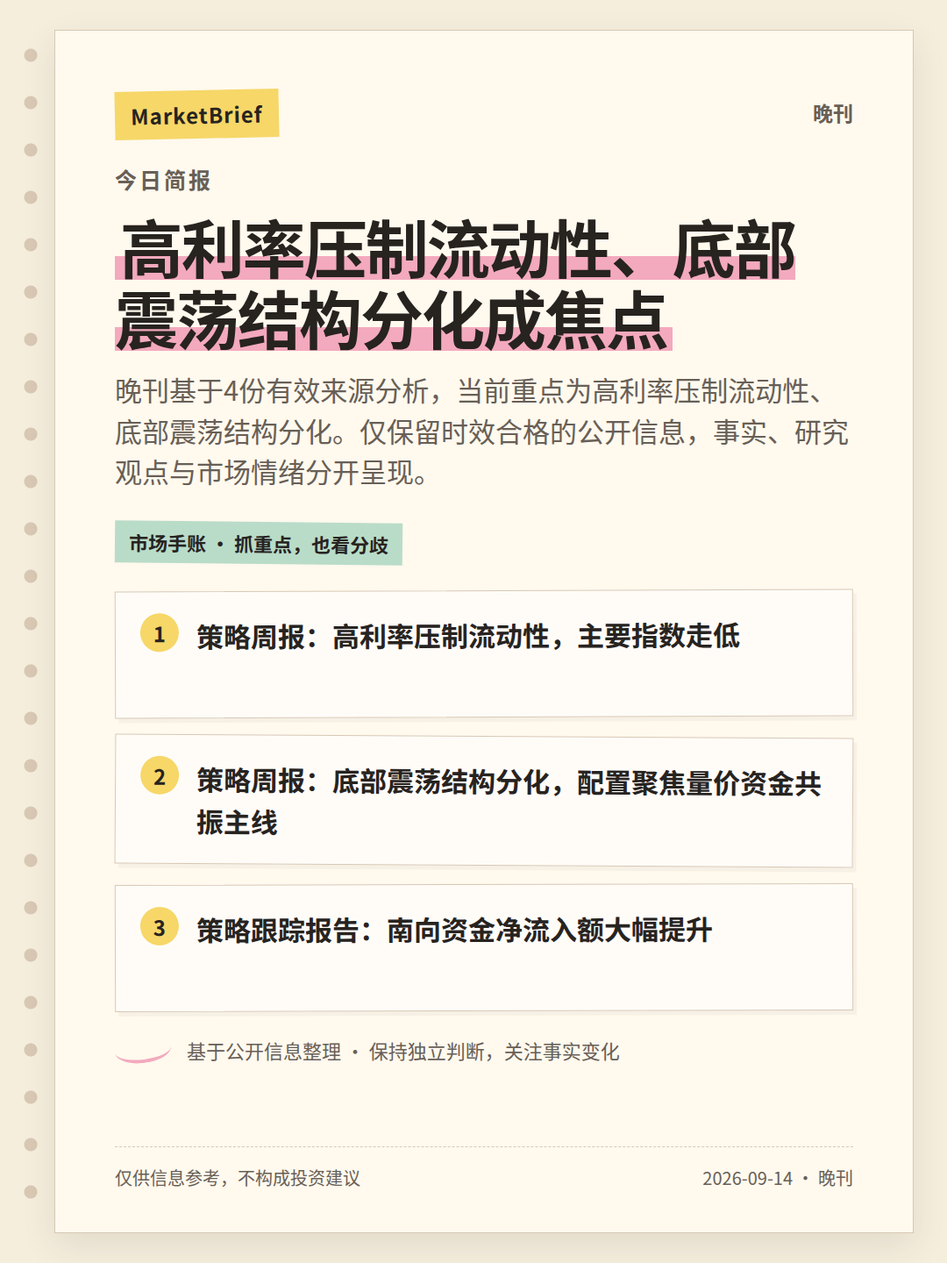
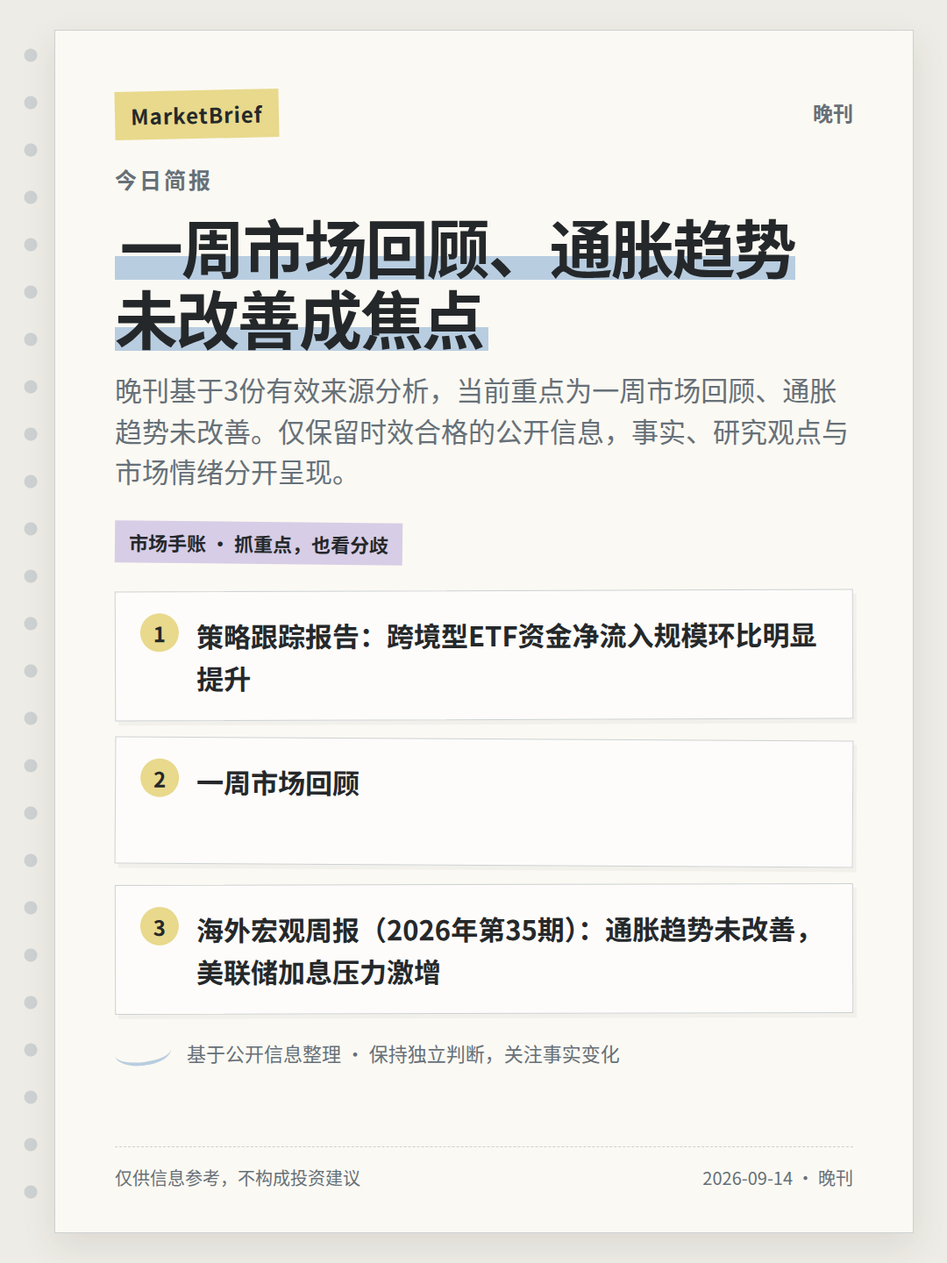
MarketBrief: publish official-source notebook edition

diff --git a/output/marketbrief/2026-09-14/pm/2026-09-14-pm-01.html b/output/marketbrief/2026-09-14/pm/2026-09-14-pm-01.html
@@ -1,33 +1,33 @@
 <!doctype html>
 <html lang="zh-CN"><head><meta charset="utf-8"><style>
-*{box-sizing:border-box}html,body{margin:0;width:1080px;height:1440px;background:#F5EEDD;color:#27231F;font-family:'Noto Sans CJK SC','Microsoft YaHei',sans-serif}
-body:before{content:'';position:absolute;left:24px;top:36px;bottom:36px;width:22px;background:radial-gradient(circle,#D8C8B4 0 7px,transparent 8px) center top/22px 54px repeat-y}
-main{position:relative;margin:34px 38px 34px 62px;width:980px;height:1372px;padding:68px 68px 52px;background:#FFF9EE;border:1px solid #D8C8B4;box-shadow:0 14px 36px rgba(58,47,39,.10);overflow:hidden}
+*{box-sizing:border-box}html,body{margin:0;width:1080px;height:1440px;background:#EEECE6;color:#25282A;font-family:'Noto Sans CJK SC','Microsoft YaHei',sans-serif}
+body:before{content:'';position:absolute;left:24px;top:36px;bottom:36px;width:22px;background:radial-gradient(circle,#CDD1D2 0 7px,transparent 8px) center top/22px 54px repeat-y}
+main{position:relative;margin:34px 38px 34px 62px;width:980px;height:1372px;padding:68px 68px 52px;background:#FBF9F3;border:1px solid #CDD1D2;box-shadow:0 14px 36px rgba(58,47,39,.10);overflow:hidden}
 main:after{content:none}
 .top{position:relative;z-index:1;display:flex;justify-content:space-between;align-items:flex-start;margin-bottom:28px}
-.tape{display:inline-block;padding:10px 18px;background:#F6D768;transform:rotate(-1.2deg);font-size:24px;font-weight:800;letter-spacing:1px}
-.edition{font-size:23px;font-weight:700;color:#685F56;padding-top:8px}
-.kicker{position:relative;z-index:1;font-size:25px;font-weight:800;letter-spacing:3px;color:#685F56;margin-bottom:18px}
+.tape{display:inline-block;padding:10px 18px;background:#E8D98C;transform:rotate(-1.2deg);font-size:24px;font-weight:800;letter-spacing:1px}
+.edition{font-size:23px;font-weight:700;color:#667078;padding-top:8px}
+.kicker{position:relative;z-index:1;font-size:25px;font-weight:800;letter-spacing:3px;color:#667078;margin-bottom:18px}
 h1{position:relative;z-index:1;font-size:72px;line-height:1.12;margin:0 0 20px;font-weight:900;letter-spacing:-2px}
-h1 span{background:linear-gradient(transparent 62%,#F3A9BE 62% 88%,transparent 88%);padding:0 .08em}
-.sub{position:relative;z-index:1;font-size:31px;line-height:1.5;color:#685F56;margin-bottom:34px;max-width:850px}
-.ribbon{position:relative;z-index:1;display:inline-block;padding:8px 16px;margin-bottom:30px;background:#B9DCC8;font-size:22px;font-weight:700;transform:rotate(.6deg)}
+h1 span{background:linear-gradient(transparent 62%,#B8CDE0 62% 88%,transparent 88%);padding:0 .08em}
+.sub{position:relative;z-index:1;font-size:31px;line-height:1.5;color:#667078;margin-bottom:34px;max-width:850px}
+.ribbon{position:relative;z-index:1;display:inline-block;padding:8px 16px;margin-bottom:30px;background:#D7CDE6;font-size:22px;font-weight:700;transform:rotate(.6deg)}
 .notes{position:relative;z-index:1;display:grid;gap:21px}
-.note{position:relative;min-height:145px;padding:26px 30px 24px 92px;background:rgba(255,255,255,.56);border:1px solid #D8C8B4;box-shadow:4px 5px 0 rgba(0,0,0,.035);transform:rotate(-.2deg)}
+.note{position:relative;min-height:145px;padding:26px 30px 24px 92px;background:rgba(255,255,255,.56);border:1px solid #CDD1D2;box-shadow:4px 5px 0 rgba(0,0,0,.035);transform:rotate(-.2deg)}
 .note:nth-child(2){transform:rotate(.35deg)}.note:nth-child(3){transform:rotate(-.15deg)}
-.note b{position:absolute;left:28px;top:24px;width:44px;height:44px;border-radius:50%;display:grid;place-items:center;background:#F6D768;font-size:24px}
+.note b{position:absolute;left:28px;top:24px;width:44px;height:44px;border-radius:50%;display:grid;place-items:center;background:#E8D98C;font-size:24px}
 .note p{margin:0;font-size:31px;line-height:1.55;font-weight:650}
-.margin{position:relative;z-index:1;margin-top:28px;display:flex;gap:18px;align-items:center;color:#685F56;font-size:22px}
-.sketch{width:64px;height:30px;border-bottom:4px solid #F3A9BE;border-radius:50%;transform:rotate(-7deg)}
-footer{position:absolute;z-index:1;left:68px;right:68px;bottom:48px;border-top:1px dashed #D8C8B4;padding-top:20px;display:flex;justify-content:space-between;gap:20px;color:#685F56;font-size:20px}
+.margin{position:relative;z-index:1;margin-top:28px;display:flex;gap:18px;align-items:center;color:#667078;font-size:22px}
+.sketch{width:64px;height:30px;border-bottom:4px solid #B8CDE0;border-radius:50%;transform:rotate(-7deg)}
+footer{position:absolute;z-index:1;left:68px;right:68px;bottom:48px;border-top:1px dashed #CDD1D2;padding-top:20px;display:flex;justify-content:space-between;gap:20px;color:#667078;font-size:20px}
 </style></head>
 <body><main>
 <div class="top"><span class="tape">MarketBrief</span><span class="edition">晚刊</span></div>
 <div class="kicker">今日简报</div>
-<h1><span>高利率压制流动性、底部震荡结构分化成焦点</span></h1>
-<div class="sub">晚刊基于4份有效来源分析，当前重点为高利率压制流动性、底部震荡结构分化。仅保留时效合格的公开信息，事实、研究观点与市场情绪分开呈现。</div>
+<h1><span>一周市场回顾、通胀趋势未改善成焦点</span></h1>
+<div class="sub">晚刊基于3份有效来源分析，当前重点为一周市场回顾、通胀趋势未改善。仅保留时效合格的公开信息，事实、研究观点与市场情绪分开呈现。</div>
 <div class="ribbon">市场手账 · 抓重点，也看分歧</div>
-<div class="notes"><section class="note"><b>1</b><p>策略周报：高利率压制流动性，主要指数走低</p></section><section class="note"><b>2</b><p>策略周报：底部震荡结构分化，配置聚焦量价资金共振主线</p></section><section class="note"><b>3</b><p>策略跟踪报告：南向资金净流入额大幅提升</p></section></div>
+<div class="notes"><section class="note"><b>1</b><p>策略跟踪报告：跨境型ETF资金净流入规模环比明显提升</p></section><section class="note"><b>2</b><p>一周市场回顾</p></section><section class="note"><b>3</b><p>海外宏观周报（2026年第35期）：通胀趋势未改善，美联储加息压力激增</p></section></div>
 <div class="margin"><span class="sketch"></span><span>基于公开信息整理 · 保持独立判断，关注事实变化</span></div>
 <footer><span>仅供信息参考，不构成投资建议</span><span>2026-09-14 · 晚刊</span></footer>
 </main></body></html>

diff --git a/output/marketbrief/2026-09-14/pm/2026-09-14-pm-02.html b/output/marketbrief/2026-09-14/pm/2026-09-14-pm-02.html
@@ -1,25 +1,25 @@
 <!doctype html>
 <html lang="zh-CN"><head><meta charset="utf-8"><style>
-*{box-sizing:border-box}html,body{margin:0;width:1080px;height:1440px;background:#F5EEDD;color:#27231F;font-family:'Noto Sans CJK SC','Microsoft YaHei',sans-serif}
-body:before{content:'';position:absolute;left:24px;top:36px;bottom:36px;width:22px;background:radial-gradient(circle,#D8C8B4 0 7px,transparent 8px) center top/22px 54px repeat-y}
-main{position:relative;margin:34px 38px 34px 62px;width:980px;height:1372px;padding:68px 68px 52px;background:#FFF9EE;border:1px solid #D8C8B4;box-shadow:0 14px 36px rgba(58,47,39,.10);overflow:hidden}
+*{box-sizing:border-box}html,body{margin:0;width:1080px;height:1440px;background:#EEECE6;color:#25282A;font-family:'Noto Sans CJK SC','Microsoft YaHei',sans-serif}
+body:before{content:'';position:absolute;left:24px;top:36px;bottom:36px;width:22px;background:radial-gradient(circle,#CDD1D2 0 7px,transparent 8px) center top/22px 54px repeat-y}
+main{position:relative;margin:34px 38px 34px 62px;width:980px;height:1372px;padding:68px 68px 52px;background:#FBF9F3;border:1px solid #CDD1D2;box-shadow:0 14px 36px rgba(58,47,39,.10);overflow:hidden}
 main:after{content:none}
 .top{position:relative;z-index:1;display:flex;justify-content:space-between;align-items:flex-start;margin-bottom:28px}
-.tape{display:inline-block;padding:10px 18px;background:#F6D768;transform:rotate(-1.2deg);font-size:24px;font-weight:800;letter-spacing:1px}
-.edition{font-size:23px;font-weight:700;color:#685F56;padding-top:8px}
-.kicker{position:relative;z-index:1;font-size:25px;font-weight:800;letter-spacing:3px;color:#685F56;margin-bottom:18px}
+.tape{display:inline-block;padding:10px 18px;background:#E8D98C;transform:rotate(-1.2deg);font-size:24px;font-weight:800;letter-spacing:1px}
+.edition{font-size:23px;font-weight:700;color:#667078;padding-top:8px}
+.kicker{position:relative;z-index:1;font-size:25px;font-weight:800;letter-spacing:3px;color:#667078;margin-bottom:18px}
 h1{position:relative;z-index:1;font-size:72px;line-height:1.12;margin:0 0 20px;font-weight:900;letter-spacing:-2px}
-h1 span{background:linear-gradient(transparent 62%,#F3A9BE 62% 88%,transparent 88%);padding:0 .08em}
-.sub{position:relative;z-index:1;font-size:31px;line-height:1.5;color:#685F56;margin-bottom:34px;max-width:850px}
-.ribbon{position:relative;z-index:1;display:inline-block;padding:8px 16px;margin-bottom:30px;background:#B9DCC8;font-size:22px;font-weight:700;transform:rotate(.6deg)}
+h1 span{background:linear-gradient(transparent 62%,#B8CDE0 62% 88%,transparent 88%);padding:0 .08em}
+.sub{position:relative;z-index:1;font-size:31px;line-height:1.5;color:#667078;margin-bottom:34px;max-width:850px}
+.ribbon{position:relative;z-index:1;display:inline-block;padding:8px 16px;margin-bottom:30px;background:#D7CDE6;font-size:22px;font-weight:700;transform:rotate(.6deg)}
 .notes{position:relative;z-index:1;display:grid;gap:21px}
-.note{position:relative;min-height:145px;padding:26px 30px 24px 92px;background:rgba(255,255,255,.56);border:1px solid #D8C8B4;box-shadow:4px 5px 0 rgba(0,0,0,.035);transform:rotate(-.2deg)}
+.note{position:relative;min-height:145px;padding:26px 30px 24px 92px;background:rgba(255,255,255,.56);border:1px solid #CDD1D2;box-shadow:4px 5px 0 rgba(0,0,0,.035);transform:rotate(-.2deg)}
 .note:nth-child(2){transform:rotate(.35deg)}.note:nth-child(3){transform:rotate(-.15deg)}
-.note b{position:absolute;left:28px;top:24px;width:44px;height:44px;border-radius:50%;display:grid;place-items:center;background:#F6D768;font-size:24px}
+.note b{position:absolute;left:28px;top:24px;width:44px;height:44px;border-radius:50%;display:grid;place-items:center;background:#E8D98C;font-size:24px}
 .note p{margin:0;font-size:31px;line-height:1.55;font-weight:650}
-.margin{position:relative;z-index:1;margin-top:28px;display:flex;gap:18px;align-items:center;color:#685F56;font-size:22px}
-.sketch{width:64px;height:30px;border-bottom:4px solid #F3A9BE;border-radius:50%;transform:rotate(-7deg)}
-footer{position:absolute;z-index:1;left:68px;right:68px;bottom:48px;border-top:1px dashed #D8C8B4;padding-top:20px;display:flex;justify-content:space-between;gap:20px;color:#685F56;font-size:20px}
+.margin{position:relative;z-index:1;margin-top:28px;display:flex;gap:18px;align-items:center;color:#667078;font-size:22px}
+.sketch{width:64px;height:30px;border-bottom:4px solid #B8CDE0;border-radius:50%;transform:rotate(-7deg)}
+footer{position:absolute;z-index:1;left:68px;right:68px;bottom:48px;border-top:1px dashed #CDD1D2;padding-top:20px;display:flex;justify-content:space-between;gap:20px;color:#667078;font-size:20px}
 </style></head>
 <body><main>
 <div class="top"><span class="tape">MarketBrief</span><span class="edition">晚刊</span></div>
@@ -27,7 +27,7 @@ footer{position:absolute;z-index:1;left:68px;right:68px;bottom:48px;border-top:1
 <h1><span>今晚外部变量</span></h1>
 <div class="sub">只保留当前时效窗口内、已有公开信息支持的海外市场与宏观线索。</div>
 <div class="ribbon">市场手账 · 抓重点，也看分歧</div>
-<div class="notes"><section class="note"><b>1</b><p>CPI消费者价格指数发布：09/11发布，具体数值未在本页提供</p></section><section class="note"><b>2</b><p>PPI生产者价格指数发布：09/10发布，具体数值未在本页提供</p></section><section class="note"><b>3</b><p>BLS实践与程序审查结果简报：无日期公告，内容未知</p></section></div>
+<div class="notes"><section class="note"><b>1</b><p>CPI与PPI近期发布：CPI于9/11发布，PPI于9/10发布，均在时效窗口内，但页面未提供具体数值</p></section><section class="note"><b>2</b><p>实际收入与雇主成本发布：Real Earnings于9/11发布，ECCEC于9/9发布，均为近期数据锚点</p></section><section class="note"><b>3</b><p>BLS实践与程序审查简报：最新公告为BLS实践与程序审查结果简报，未标注日期</p></section></div>
 <div class="margin"><span class="sketch"></span><span>基于公开信息整理 · 保持独立判断，关注事实变化</span></div>
 <footer><span>仅供信息参考，不构成投资建议</span><span>2026-09-14 · 晚刊</span></footer>
 </main></body></html>

diff --git a/output/marketbrief/2026-09-14/pm/2026-09-14-pm-05.html b/output/marketbrief/2026-09-14/pm/2026-09-14-pm-05.html
@@ -1,25 +1,25 @@
 <!doctype html>
 <html lang="zh-CN"><head><meta charset="utf-8"><style>
-*{box-sizing:border-box}html,body{margin:0;width:1080px;height:1440px;background:#F5EEDD;color:#27231F;font-family:'Noto Sans CJK SC','Microsoft YaHei',sans-serif}
-body:before{content:'';position:absolute;left:24px;top:36px;bottom:36px;width:22px;background:radial-gradient(circle,#D8C8B4 0 7px,transparent 8px) center top/22px 54px repeat-y}
-main{position:relative;margin:34px 38px 34px 62px;width:980px;height:1372px;padding:68px 68px 52px;background:#FFF9EE;border:1px solid #D8C8B4;box-shadow:0 14px 36px rgba(58,47,39,.10);overflow:hidden}
+*{box-sizing:border-box}html,body{margin:0;width:1080px;height:1440px;background:#EEECE6;color:#25282A;font-family:'Noto Sans CJK SC','Microsoft YaHei',sans-serif}
+body:before{content:'';position:absolute;left:24px;top:36px;bottom:36px;width:22px;background:radial-gradient(circle,#CDD1D2 0 7px,transparent 8px) center top/22px 54px repeat-y}
+main{position:relative;margin:34px 38px 34px 62px;width:980px;height:1372px;padding:68px 68px 52px;background:#FBF9F3;border:1px solid #CDD1D2;box-shadow:0 14px 36px rgba(58,47,39,.10);overflow:hidden}
 main:after{content:none}
 .top{position:relative;z-index:1;display:flex;justify-content:space-between;align-items:flex-start;margin-bottom:28px}
-.tape{display:inline-block;padding:10px 18px;background:#F6D768;transform:rotate(-1.2deg);font-size:24px;font-weight:800;letter-spacing:1px}
-.edition{font-size:23px;font-weight:700;color:#685F56;padding-top:8px}
-.kicker{position:relative;z-index:1;font-size:25px;font-weight:800;letter-spacing:3px;color:#685F56;margin-bottom:18px}
+.tape{display:inline-block;padding:10px 18px;background:#E8D98C;transform:rotate(-1.2deg);font-size:24px;font-weight:800;letter-spacing:1px}
+.edition{font-size:23px;font-weight:700;color:#667078;padding-top:8px}
+.kicker{position:relative;z-index:1;font-size:25px;font-weight:800;letter-spacing:3px;color:#667078;margin-bottom:18px}
 h1{position:relative;z-index:1;font-size:72px;line-height:1.12;margin:0 0 20px;font-weight:900;letter-spacing:-2px}
-h1 span{background:linear-gradient(transparent 62%,#F3A9BE 62% 88%,transparent 88%);padding:0 .08em}
-.sub{position:relative;z-index:1;font-size:31px;line-height:1.5;color:#685F56;margin-bottom:34px;max-width:850px}
-.ribbon{position:relative;z-index:1;display:inline-block;padding:8px 16px;margin-bottom:30px;background:#B9DCC8;font-size:22px;font-weight:700;transform:rotate(.6deg)}
+h1 span{background:linear-gradient(transparent 62%,#B8CDE0 62% 88%,transparent 88%);padding:0 .08em}
+.sub{position:relative;z-index:1;font-size:31px;line-height:1.5;color:#667078;margin-bottom:34px;max-width:850px}
+.ribbon{position:relative;z-index:1;display:inline-block;padding:8px 16px;margin-bottom:30px;background:#D7CDE6;font-size:22px;font-weight:700;transform:rotate(.6deg)}
 .notes{position:relative;z-index:1;display:grid;gap:21px}
-.note{position:relative;min-height:145px;padding:26px 30px 24px 92px;background:rgba(255,255,255,.56);border:1px solid #D8C8B4;box-shadow:4px 5px 0 rgba(0,0,0,.035);transform:rotate(-.2deg)}
+.note{position:relative;min-height:145px;padding:26px 30px 24px 92px;background:rgba(255,255,255,.56);border:1px solid #CDD1D2;box-shadow:4px 5px 0 rgba(0,0,0,.035);transform:rotate(-.2deg)}
 .note:nth-child(2){transform:rotate(.35deg)}.note:nth-child(3){transform:rotate(-.15deg)}
-.note b{position:absolute;left:28px;top:24px;width:44px;height:44px;border-radius:50%;display:grid;place-items:center;background:#F6D768;font-size:24px}
+.note b{position:absolute;left:28px;top:24px;width:44px;height:44px;border-radius:50%;display:grid;place-items:center;background:#E8D98C;font-size:24px}
 .note p{margin:0;font-size:31px;line-height:1.55;font-weight:650}
-.margin{position:relative;z-index:1;margin-top:28px;display:flex;gap:18px;align-items:center;color:#685F56;font-size:22px}
-.sketch{width:64px;height:30px;border-bottom:4px solid #F3A9BE;border-radius:50%;transform:rotate(-7deg)}
-footer{position:absolute;z-index:1;left:68px;right:68px;bottom:48px;border-top:1px dashed #D8C8B4;padding-top:20px;display:flex;justify-content:space-between;gap:20px;color:#685F56;font-size:20px}
+.margin{position:relative;z-index:1;margin-top:28px;display:flex;gap:18px;align-items:center;color:#667078;font-size:22px}
+.sketch{width:64px;height:30px;border-bottom:4px solid #B8CDE0;border-radius:50%;transform:rotate(-7deg)}
+footer{position:absolute;z-index:1;left:68px;right:68px;bottom:48px;border-top:1px dashed #CDD1D2;padding-top:20px;display:flex;justify-content:space-between;gap:20px;color:#667078;font-size:20px}
 </style></head>
 <body><main>
 <div class="top"><span class="tape">MarketBrief</span><span class="edition">晚刊</span></div>
@@ -27,7 +27,7 @@ footer{position:absolute;z-index:1;left:68px;right:68px;bottom:48px;border-top:1
 <h1><span>事实、观点与情绪分开看</span></h1>
 <div class="sub">先看已确认事实，再看研究判断和市场情绪是否一致。</div>
 <div class="ribbon">市场手账 · 抓重点，也看分歧</div>
-<div class="notes"><section class="note"><b>1</b><p>CPI消费者价格指数发布：09/11发布，具体数值未在本页提供</p></section><section class="note"><b>2</b><p>策略周报：高利率压制流动性，主要指数走低</p></section><section class="note"><b>3</b><p>CPO板块持续活跃：易中天等CPO相关个股热度居前，板块情绪偏热</p></section></div>
+<div class="notes"><section class="note"><b>1</b><p>CPI与PPI近期发布：CPI于9/11发布，PPI于9/10发布，均在时效窗口内，但页面未提供具体数值</p></section><section class="note"><b>2</b><p>策略跟踪报告：跨境型ETF资金净流入规模环比明显提升</p></section><section class="note"><b>3</b><p>继续观察公开信息变化，避免仅凭单一信号下结论。</p></section></div>
 <div class="margin"><span class="sketch"></span><span>基于公开信息整理 · 保持独立判断，关注事实变化</span></div>
 <footer><span>仅供信息参考，不构成投资建议</span><span>2026-09-14 · 晚刊</span></footer>
 </main></body></html>

diff --git a/output/marketbrief/2026-09-14/pm/2026-09-14-pm-06.html b/output/marketbrief/2026-09-14/pm/2026-09-14-pm-06.html
@@ -1,25 +1,25 @@
 <!doctype html>
 <html lang="zh-CN"><head><meta charset="utf-8"><style>
-*{box-sizing:border-box}html,body{margin:0;width:1080px;height:1440px;background:#F5EEDD;color:#27231F;font-family:'Noto Sans CJK SC','Microsoft YaHei',sans-serif}
-body:before{content:'';position:absolute;left:24px;top:36px;bottom:36px;width:22px;background:radial-gradient(circle,#D8C8B4 0 7px,transparent 8px) center top/22px 54px repeat-y}
-main{position:relative;margin:34px 38px 34px 62px;width:980px;height:1372px;padding:68px 68px 52px;background:#FFF9EE;border:1px solid #D8C8B4;box-shadow:0 14px 36px rgba(58,47,39,.10);overflow:hidden}
+*{box-sizing:border-box}html,body{margin:0;width:1080px;height:1440px;background:#EEECE6;color:#25282A;font-family:'Noto Sans CJK SC','Microsoft YaHei',sans-serif}
+body:before{content:'';position:absolute;left:24px;top:36px;bottom:36px;width:22px;background:radial-gradient(circle,#CDD1D2 0 7px,transparent 8px) center top/22px 54px repeat-y}
+main{position:relative;margin:34px 38px 34px 62px;width:980px;height:1372px;padding:68px 68px 52px;background:#FBF9F3;border:1px solid #CDD1D2;box-shadow:0 14px 36px rgba(58,47,39,.10);overflow:hidden}
 main:after{content:none}
 .top{position:relative;z-index:1;display:flex;justify-content:space-between;align-items:flex-start;margin-bottom:28px}
-.tape{display:inline-block;padding:10px 18px;background:#F6D768;transform:rotate(-1.2deg);font-size:24px;font-weight:800;letter-spacing:1px}
-.edition{font-size:23px;font-weight:700;color:#685F56;padding-top:8px}
-.kicker{position:relative;z-index:1;font-size:25px;font-weight:800;letter-spacing:3px;color:#685F56;margin-bottom:18px}
+.tape{display:inline-block;padding:10px 18px;background:#E8D98C;transform:rotate(-1.2deg);font-size:24px;font-weight:800;letter-spacing:1px}
+.edition{font-size:23px;font-weight:700;color:#667078;padding-top:8px}
+.kicker{position:relative;z-index:1;font-size:25px;font-weight:800;letter-spacing:3px;color:#667078;margin-bottom:18px}
 h1{position:relative;z-index:1;font-size:72px;line-height:1.12;margin:0 0 20px;font-weight:900;letter-spacing:-2px}
-h1 span{background:linear-gradient(transparent 62%,#F3A9BE 62% 88%,transparent 88%);padding:0 .08em}
-.sub{position:relative;z-index:1;font-size:31px;line-height:1.5;color:#685F56;margin-bottom:34px;max-width:850px}
-.ribbon{position:relative;z-index:1;display:inline-block;padding:8px 16px;margin-bottom:30px;background:#B9DCC8;font-size:22px;font-weight:700;transform:rotate(.6deg)}
+h1 span{background:linear-gradient(transparent 62%,#B8CDE0 62% 88%,transparent 88%);padding:0 .08em}
+.sub{position:relative;z-index:1;font-size:31px;line-height:1.5;color:#667078;margin-bottom:34px;max-width:850px}
+.ribbon{position:relative;z-index:1;display:inline-block;padding:8px 16px;margin-bottom:30px;background:#D7CDE6;font-size:22px;font-weight:700;transform:rotate(.6deg)}
 .notes{position:relative;z-index:1;display:grid;gap:21px}
-.note{position:relative;min-height:145px;padding:26px 30px 24px 92px;background:rgba(255,255,255,.56);border:1px solid #D8C8B4;box-shadow:4px 5px 0 rgba(0,0,0,.035);transform:rotate(-.2deg)}
+.note{position:relative;min-height:145px;padding:26px 30px 24px 92px;background:rgba(255,255,255,.56);border:1px solid #CDD1D2;box-shadow:4px 5px 0 rgba(0,0,0,.035);transform:rotate(-.2deg)}
 .note:nth-child(2){transform:rotate(.35deg)}.note:nth-child(3){transform:rotate(-.15deg)}
-.note b{position:absolute;left:28px;top:24px;width:44px;height:44px;border-radius:50%;display:grid;place-items:center;background:#F6D768;font-size:24px}
+.note b{position:absolute;left:28px;top:24px;width:44px;height:44px;border-radius:50%;display:grid;place-items:center;background:#E8D98C;font-size:24px}
 .note p{margin:0;font-size:31px;line-height:1.55;font-weight:650}
-.margin{position:relative;z-index:1;margin-top:28px;display:flex;gap:18px;align-items:center;color:#685F56;font-size:22px}
-.sketch{width:64px;height:30px;border-bottom:4px solid #F3A9BE;border-radius:50%;transform:rotate(-7deg)}
-footer{position:absolute;z-index:1;left:68px;right:68px;bottom:48px;border-top:1px dashed #D8C8B4;padding-top:20px;display:flex;justify-content:space-between;gap:20px;color:#685F56;font-size:20px}
+.margin{position:relative;z-index:1;margin-top:28px;display:flex;gap:18px;align-items:center;color:#667078;font-size:22px}
+.sketch{width:64px;height:30px;border-bottom:4px solid #B8CDE0;border-radius:50%;transform:rotate(-7deg)}
+footer{position:absolute;z-index:1;left:68px;right:68px;bottom:48px;border-top:1px dashed #CDD1D2;padding-top:20px;display:flex;justify-content:space-between;gap:20px;color:#667078;font-size:20px}
 </style></head>
 <body><main>
 <div class="top"><span class="tape">MarketBrief</span><span class="edition">晚刊</span></div>
@@ -27,7 +27,7 @@ footer{position:absolute;z-index:1;left:68px;right:68px;bottom:48px;border-top:1
 <h1><span>后续变量仍需确认</span></h1>
 <div class="sub">只保留来源自身限制和当前证据中的风险项，不额外推演。</div>
 <div class="ribbon">市场手账 · 抓重点，也看分歧</div>
-<div class="notes"><section class="note"><b>1</b><p>社区来源，仅为情绪/讨论线索，非事实锚</p></section><section class="note"><b>2</b><p>部分社区信息存在时效性不足，过期内容已从当前证据中剔除。</p></section><section class="note"><b>3</b><p>热股榜为实时快照，不代表持续趋势</p></section></div>
+<div class="notes"><section class="note"><b>1</b><p>页面为新闻室导航/索引页，仅列出发布标题与日期，未包含CPI、PPI等具体数据数值</p></section><section class="note"><b>2</b><p>无法从本页获取通胀率、失业率等关键经济指标的具体读数</p></section><section class="note"><b>3</b><p>部分社区信息存在时效性不足，过期内容已从当前证据中剔除。</p></section></div>
 <div class="margin"><span class="sketch"></span><span>基于公开信息整理 · 保持独立判断，关注事实变化</span></div>
 <footer><span>仅供信息参考，不构成投资建议</span><span>2026-09-14 · 晚刊</span></footer>
 </main></body></html>

diff --git a/output/marketbrief/2026-09-14/pm/2026-09-14-pm-04.html b/output/marketbrief/2026-09-14/pm/2026-09-14-pm-04.html
@@ -1,25 +1,25 @@
 <!doctype html>
 <html lang="zh-CN"><head><meta charset="utf-8"><style>
-*{box-sizing:border-box}html,body{margin:0;width:1080px;height:1440px;background:#F5EEDD;color:#27231F;font-family:'Noto Sans CJK SC','Microsoft YaHei',sans-serif}
-body:before{content:'';position:absolute;left:24px;top:36px;bottom:36px;width:22px;background:radial-gradient(circle,#D8C8B4 0 7px,transparent 8px) center top/22px 54px repeat-y}
-main{position:relative;margin:34px 38px 34px 62px;width:980px;height:1372px;padding:68px 68px 52px;background:#FFF9EE;border:1px solid #D8C8B4;box-shadow:0 14px 36px rgba(58,47,39,.10);overflow:hidden}
+*{box-sizing:border-box}html,body{margin:0;width:1080px;height:1440px;background:#EEECE6;color:#25282A;font-family:'Noto Sans CJK SC','Microsoft YaHei',sans-serif}
+body:before{content:'';position:absolute;left:24px;top:36px;bottom:36px;width:22px;background:radial-gradient(circle,#CDD1D2 0 7px,transparent 8px) center top/22px 54px repeat-y}
+main{position:relative;margin:34px 38px 34px 62px;width:980px;height:1372px;padding:68px 68px 52px;background:#FBF9F3;border:1px solid #CDD1D2;box-shadow:0 14px 36px rgba(58,47,39,.10);overflow:hidden}
 main:after{content:none}
 .top{position:relative;z-index:1;display:flex;justify-content:space-between;align-items:flex-start;margin-bottom:28px}
-.tape{display:inline-block;padding:10px 18px;background:#F6D768;transform:rotate(-1.2deg);font-size:24px;font-weight:800;letter-spacing:1px}
-.edition{font-size:23px;font-weight:700;color:#685F56;padding-top:8px}
-.kicker{position:relative;z-index:1;font-size:25px;font-weight:800;letter-spacing:3px;color:#685F56;margin-bottom:18px}
+.tape{display:inline-block;padding:10px 18px;background:#E8D98C;transform:rotate(-1.2deg);font-size:24px;font-weight:800;letter-spacing:1px}
+.edition{font-size:23px;font-weight:700;color:#667078;padding-top:8px}
+.kicker{position:relative;z-index:1;font-size:25px;font-weight:800;letter-spacing:3px;color:#667078;margin-bottom:18px}
 h1{position:relative;z-index:1;font-size:72px;line-height:1.12;margin:0 0 20px;font-weight:900;letter-spacing:-2px}
-h1 span{background:linear-gradient(transparent 62%,#F3A9BE 62% 88%,transparent 88%);padding:0 .08em}
-.sub{position:relative;z-index:1;font-size:31px;line-height:1.5;color:#685F56;margin-bottom:34px;max-width:850px}
-.ribbon{position:relative;z-index:1;display:inline-block;padding:8px 16px;margin-bottom:30px;background:#B9DCC8;font-size:22px;font-weight:700;transform:rotate(.6deg)}
+h1 span{background:linear-gradient(transparent 62%,#B8CDE0 62% 88%,transparent 88%);padding:0 .08em}
+.sub{position:relative;z-index:1;font-size:31px;line-height:1.5;color:#667078;margin-bottom:34px;max-width:850px}
+.ribbon{position:relative;z-index:1;display:inline-block;padding:8px 16px;margin-bottom:30px;background:#D7CDE6;font-size:22px;font-weight:700;transform:rotate(.6deg)}
 .notes{position:relative;z-index:1;display:grid;gap:21px}
-.note{position:relative;min-height:145px;padding:26px 30px 24px 92px;background:rgba(255,255,255,.56);border:1px solid #D8C8B4;box-shadow:4px 5px 0 rgba(0,0,0,.035);transform:rotate(-.2deg)}
+.note{position:relative;min-height:145px;padding:26px 30px 24px 92px;background:rgba(255,255,255,.56);border:1px solid #CDD1D2;box-shadow:4px 5px 0 rgba(0,0,0,.035);transform:rotate(-.2deg)}
 .note:nth-child(2){transform:rotate(.35deg)}.note:nth-child(3){transform:rotate(-.15deg)}
-.note b{position:absolute;left:28px;top:24px;width:44px;height:44px;border-radius:50%;display:grid;place-items:center;background:#F6D768;font-size:24px}
+.note b{position:absolute;left:28px;top:24px;width:44px;height:44px;border-radius:50%;display:grid;place-items:center;background:#E8D98C;font-size:24px}
 .note p{margin:0;font-size:31px;line-height:1.55;font-weight:650}
-.margin{position:relative;z-index:1;margin-top:28px;display:flex;gap:18px;align-items:center;color:#685F56;font-size:22px}
-.sketch{width:64px;height:30px;border-bottom:4px solid #F3A9BE;border-radius:50%;transform:rotate(-7deg)}
-footer{position:absolute;z-index:1;left:68px;right:68px;bottom:48px;border-top:1px dashed #D8C8B4;padding-top:20px;display:flex;justify-content:space-between;gap:20px;color:#685F56;font-size:20px}
+.margin{position:relative;z-index:1;margin-top:28px;display:flex;gap:18px;align-items:center;color:#667078;font-size:22px}
+.sketch{width:64px;height:30px;border-bottom:4px solid #B8CDE0;border-radius:50%;transform:rotate(-7deg)}
+footer{position:absolute;z-index:1;left:68px;right:68px;bottom:48px;border-top:1px dashed #CDD1D2;padding-top:20px;display:flex;justify-content:space-between;gap:20px;color:#667078;font-size:20px}
 </style></head>
 <body><main>
 <div class="top"><span class="tape">MarketBrief</span><span class="edition">晚刊</span></div>
@@ -27,7 +27,7 @@ footer{position:absolute;z-index:1;left:68px;right:68px;bottom:48px;border-top:1
 <h1><span>主线与事件交叉验证</span></h1>
 <div class="sub">优先采用官方与研究信息，社区热度只作为辅助信号。</div>
 <div class="ribbon">市场手账 · 抓重点，也看分歧</div>
-<div class="notes"><section class="note"><b>1</b><p>实际工资（Real Earnings）发布：09/11发布，具体数值未在本页提供</p></section><section class="note"><b>2</b><p>策略周报：高利率压制流动性，主要指数走低</p></section><section class="note"><b>3</b><p>策略周报：底部震荡结构分化，配置聚焦量价资金共振主线</p></section></div>
+<div class="notes"><section class="note"><b>1</b><p>策略跟踪报告：跨境型ETF资金净流入规模环比明显提升</p></section><section class="note"><b>2</b><p>一周市场回顾</p></section><section class="note"><b>3</b><p>海外宏观周报（2026年第35期）：通胀趋势未改善，美联储加息压力激增</p></section></div>
 <div class="margin"><span class="sketch"></span><span>基于公开信息整理 · 保持独立判断，关注事实变化</span></div>
 <footer><span>仅供信息参考，不构成投资建议</span><span>2026-09-14 · 晚刊</span></footer>
 </main></body></html>

diff --git a/output/marketbrief/2026-09-14/pm/2026-09-14-pm-03.html b/output/marketbrief/2026-09-14/pm/2026-09-14-pm-03.html
@@ -1,25 +1,25 @@
 <!doctype html>
 <html lang="zh-CN"><head><meta charset="utf-8"><style>
-*{box-sizing:border-box}html,body{margin:0;width:1080px;height:1440px;background:#F5EEDD;color:#27231F;font-family:'Noto Sans CJK SC','Microsoft YaHei',sans-serif}
-body:before{content:'';position:absolute;left:24px;top:36px;bottom:36px;width:22px;background:radial-gradient(circle,#D8C8B4 0 7px,transparent 8px) center top/22px 54px repeat-y}
-main{position:relative;margin:34px 38px 34px 62px;width:980px;height:1372px;padding:68px 68px 52px;background:#FFF9EE;border:1px solid #D8C8B4;box-shadow:0 14px 36px rgba(58,47,39,.10);overflow:hidden}
+*{box-sizing:border-box}html,body{margin:0;width:1080px;height:1440px;background:#EEECE6;color:#25282A;font-family:'Noto Sans CJK SC','Microsoft YaHei',sans-serif}
+body:before{content:'';position:absolute;left:24px;top:36px;bottom:36px;width:22px;background:radial-gradient(circle,#CDD1D2 0 7px,transparent 8px) center top/22px 54px repeat-y}
+main{position:relative;margin:34px 38px 34px 62px;width:980px;height:1372px;padding:68px 68px 52px;background:#FBF9F3;border:1px solid #CDD1D2;box-shadow:0 14px 36px rgba(58,47,39,.10);overflow:hidden}
 main:after{content:none}
 .top{position:relative;z-index:1;display:flex;justify-content:space-between;align-items:flex-start;margin-bottom:28px}
-.tape{display:inline-block;padding:10px 18px;background:#F6D768;transform:rotate(-1.2deg);font-size:24px;font-weight:800;letter-spacing:1px}
-.edition{font-size:23px;font-weight:700;color:#685F56;padding-top:8px}
-.kicker{position:relative;z-index:1;font-size:25px;font-weight:800;letter-spacing:3px;color:#685F56;margin-bottom:18px}
+.tape{display:inline-block;padding:10px 18px;background:#E8D98C;transform:rotate(-1.2deg);font-size:24px;font-weight:800;letter-spacing:1px}
+.edition{font-size:23px;font-weight:700;color:#667078;padding-top:8px}
+.kicker{position:relative;z-index:1;font-size:25px;font-weight:800;letter-spacing:3px;color:#667078;margin-bottom:18px}
 h1{position:relative;z-index:1;font-size:72px;line-height:1.12;margin:0 0 20px;font-weight:900;letter-spacing:-2px}
-h1 span{background:linear-gradient(transparent 62%,#F3A9BE 62% 88%,transparent 88%);padding:0 .08em}
-.sub{position:relative;z-index:1;font-size:31px;line-height:1.5;color:#685F56;margin-bottom:34px;max-width:850px}
-.ribbon{position:relative;z-index:1;display:inline-block;padding:8px 16px;margin-bottom:30px;background:#B9DCC8;font-size:22px;font-weight:700;transform:rotate(.6deg)}
+h1 span{background:linear-gradient(transparent 62%,#B8CDE0 62% 88%,transparent 88%);padding:0 .08em}
+.sub{position:relative;z-index:1;font-size:31px;line-height:1.5;color:#667078;margin-bottom:34px;max-width:850px}
+.ribbon{position:relative;z-index:1;display:inline-block;padding:8px 16px;margin-bottom:30px;background:#D7CDE6;font-size:22px;font-weight:700;transform:rotate(.6deg)}
 .notes{position:relative;z-index:1;display:grid;gap:21px}
-.note{position:relative;min-height:145px;padding:26px 30px 24px 92px;background:rgba(255,255,255,.56);border:1px solid #D8C8B4;box-shadow:4px 5px 0 rgba(0,0,0,.035);transform:rotate(-.2deg)}
+.note{position:relative;min-height:145px;padding:26px 30px 24px 92px;background:rgba(255,255,255,.56);border:1px solid #CDD1D2;box-shadow:4px 5px 0 rgba(0,0,0,.035);transform:rotate(-.2deg)}
 .note:nth-child(2){transform:rotate(.35deg)}.note:nth-child(3){transform:rotate(-.15deg)}
-.note b{position:absolute;left:28px;top:24px;width:44px;height:44px;border-radius:50%;display:grid;place-items:center;background:#F6D768;font-size:24px}
+.note b{position:absolute;left:28px;top:24px;width:44px;height:44px;border-radius:50%;display:grid;place-items:center;background:#E8D98C;font-size:24px}
 .note p{margin:0;font-size:31px;line-height:1.55;font-weight:650}
-.margin{position:relative;z-index:1;margin-top:28px;display:flex;gap:18px;align-items:center;color:#685F56;font-size:22px}
-.sketch{width:64px;height:30px;border-bottom:4px solid #F3A9BE;border-radius:50%;transform:rotate(-7deg)}
-footer{position:absolute;z-index:1;left:68px;right:68px;bottom:48px;border-top:1px dashed #D8C8B4;padding-top:20px;display:flex;justify-content:space-between;gap:20px;color:#685F56;font-size:20px}
+.margin{position:relative;z-index:1;margin-top:28px;display:flex;gap:18px;align-items:center;color:#667078;font-size:22px}
+.sketch{width:64px;height:30px;border-bottom:4px solid #B8CDE0;border-radius:50%;transform:rotate(-7deg)}
+footer{position:absolute;z-index:1;left:68px;right:68px;bottom:48px;border-top:1px dashed #CDD1D2;padding-top:20px;display:flex;justify-content:space-between;gap:20px;color:#667078;font-size:20px}
 </style></head>
 <body><main>
 <div class="top"><span class="tape">MarketBrief</span><span class="edition">晚刊</span></div>

diff --git a/output/marketbrief/2026-09-14/pm/brief.md b/output/marketbrief/2026-09-14/pm/brief.md
@@ -1,14 +1,14 @@
-# 高利率压制流动性、底部震荡结构分化成焦点
+# 一周市场回顾、通胀趋势未改善成焦点
 
-> 晚刊基于4份有效来源分析，当前重点为高利率压制流动性、底部震荡结构分化。仅保留时效合格的公开信息，事实、研究观点与市场情绪分开呈现。
+> 晚刊基于3份有效来源分析，当前重点为一周市场回顾、通胀趋势未改善。仅保留时效合格的公开信息，事实、研究观点与市场情绪分开呈现。
 
 ## 今晚外部变量
 
 只保留当前时效窗口内、已有公开信息支持的海外市场与宏观线索。
 
-- CPI消费者价格指数发布：09/11发布，具体数值未在本页提供
-- PPI生产者价格指数发布：09/10发布，具体数值未在本页提供
-- BLS实践与程序审查结果简报：无日期公告，内容未知
+- CPI与PPI近期发布：CPI于9/11发布，PPI于9/10发布，均在时效窗口内，但页面未提供具体数值
+- 实际收入与雇主成本发布：Real Earnings于9/11发布，ECCEC于9/9发布，均为近期数据锚点
+- BLS实践与程序审查简报：最新公告为BLS实践与程序审查结果简报，未标注日期
 
 ## A股结构与资金
 
@@ -19,25 +19,24 @@
 
 优先采用官方与研究信息，社区热度只作为辅助信号。
 
-- 实际工资（Real Earnings）发布：09/11发布，具体数值未在本页提供
-- 策略周报：高利率压制流动性，主要指数走低
-- 策略周报：底部震荡结构分化，配置聚焦量价资金共振主线
+- 策略跟踪报告：跨境型ETF资金净流入规模环比明显提升
+- 一周市场回顾
+- 海外宏观周报（2026年第35期）：通胀趋势未改善，美联储加息压力激增
 
 ## 事实、观点与情绪分开看
 
 先看已确认事实，再看研究判断和市场情绪是否一致。
 
-- CPI消费者价格指数发布：09/11发布，具体数值未在本页提供
-- 策略周报：高利率压制流动性，主要指数走低
-- CPO板块持续活跃：易中天等CPO相关个股热度居前，板块情绪偏热
+- CPI与PPI近期发布：CPI于9/11发布，PPI于9/10发布，均在时效窗口内，但页面未提供具体数值
+- 策略跟踪报告：跨境型ETF资金净流入规模环比明显提升
 
 ## 后续变量仍需确认
 
 只保留来源自身限制和当前证据中的风险项，不额外推演。
 
-- 社区来源，仅为情绪/讨论线索，非事实锚
+- 页面为新闻室导航/索引页，仅列出发布标题与日期，未包含CPI、PPI等具体数据数值
+- 无法从本页获取通胀率、失业率等关键经济指标的具体读数
 - 部分社区信息存在时效性不足，过期内容已从当前证据中剔除。
-- 热股榜为实时快照，不代表持续趋势
 
 ## 信息口径
 
@@ -48,5 +47,5 @@
 本文仅作公开信息整理与讨论，不构成任何投资建议。
 
 刊期：2026-09-14 晚刊  
-生成时间：2026-09-14T18:27:18+08:00  
-模型：`SenseNova` · 调用 4 次 · Token 8796
+生成时间：2026-09-14T20:48:18+08:00  
+模型：`SenseNova` · 调用 3 次 · Token 5495
